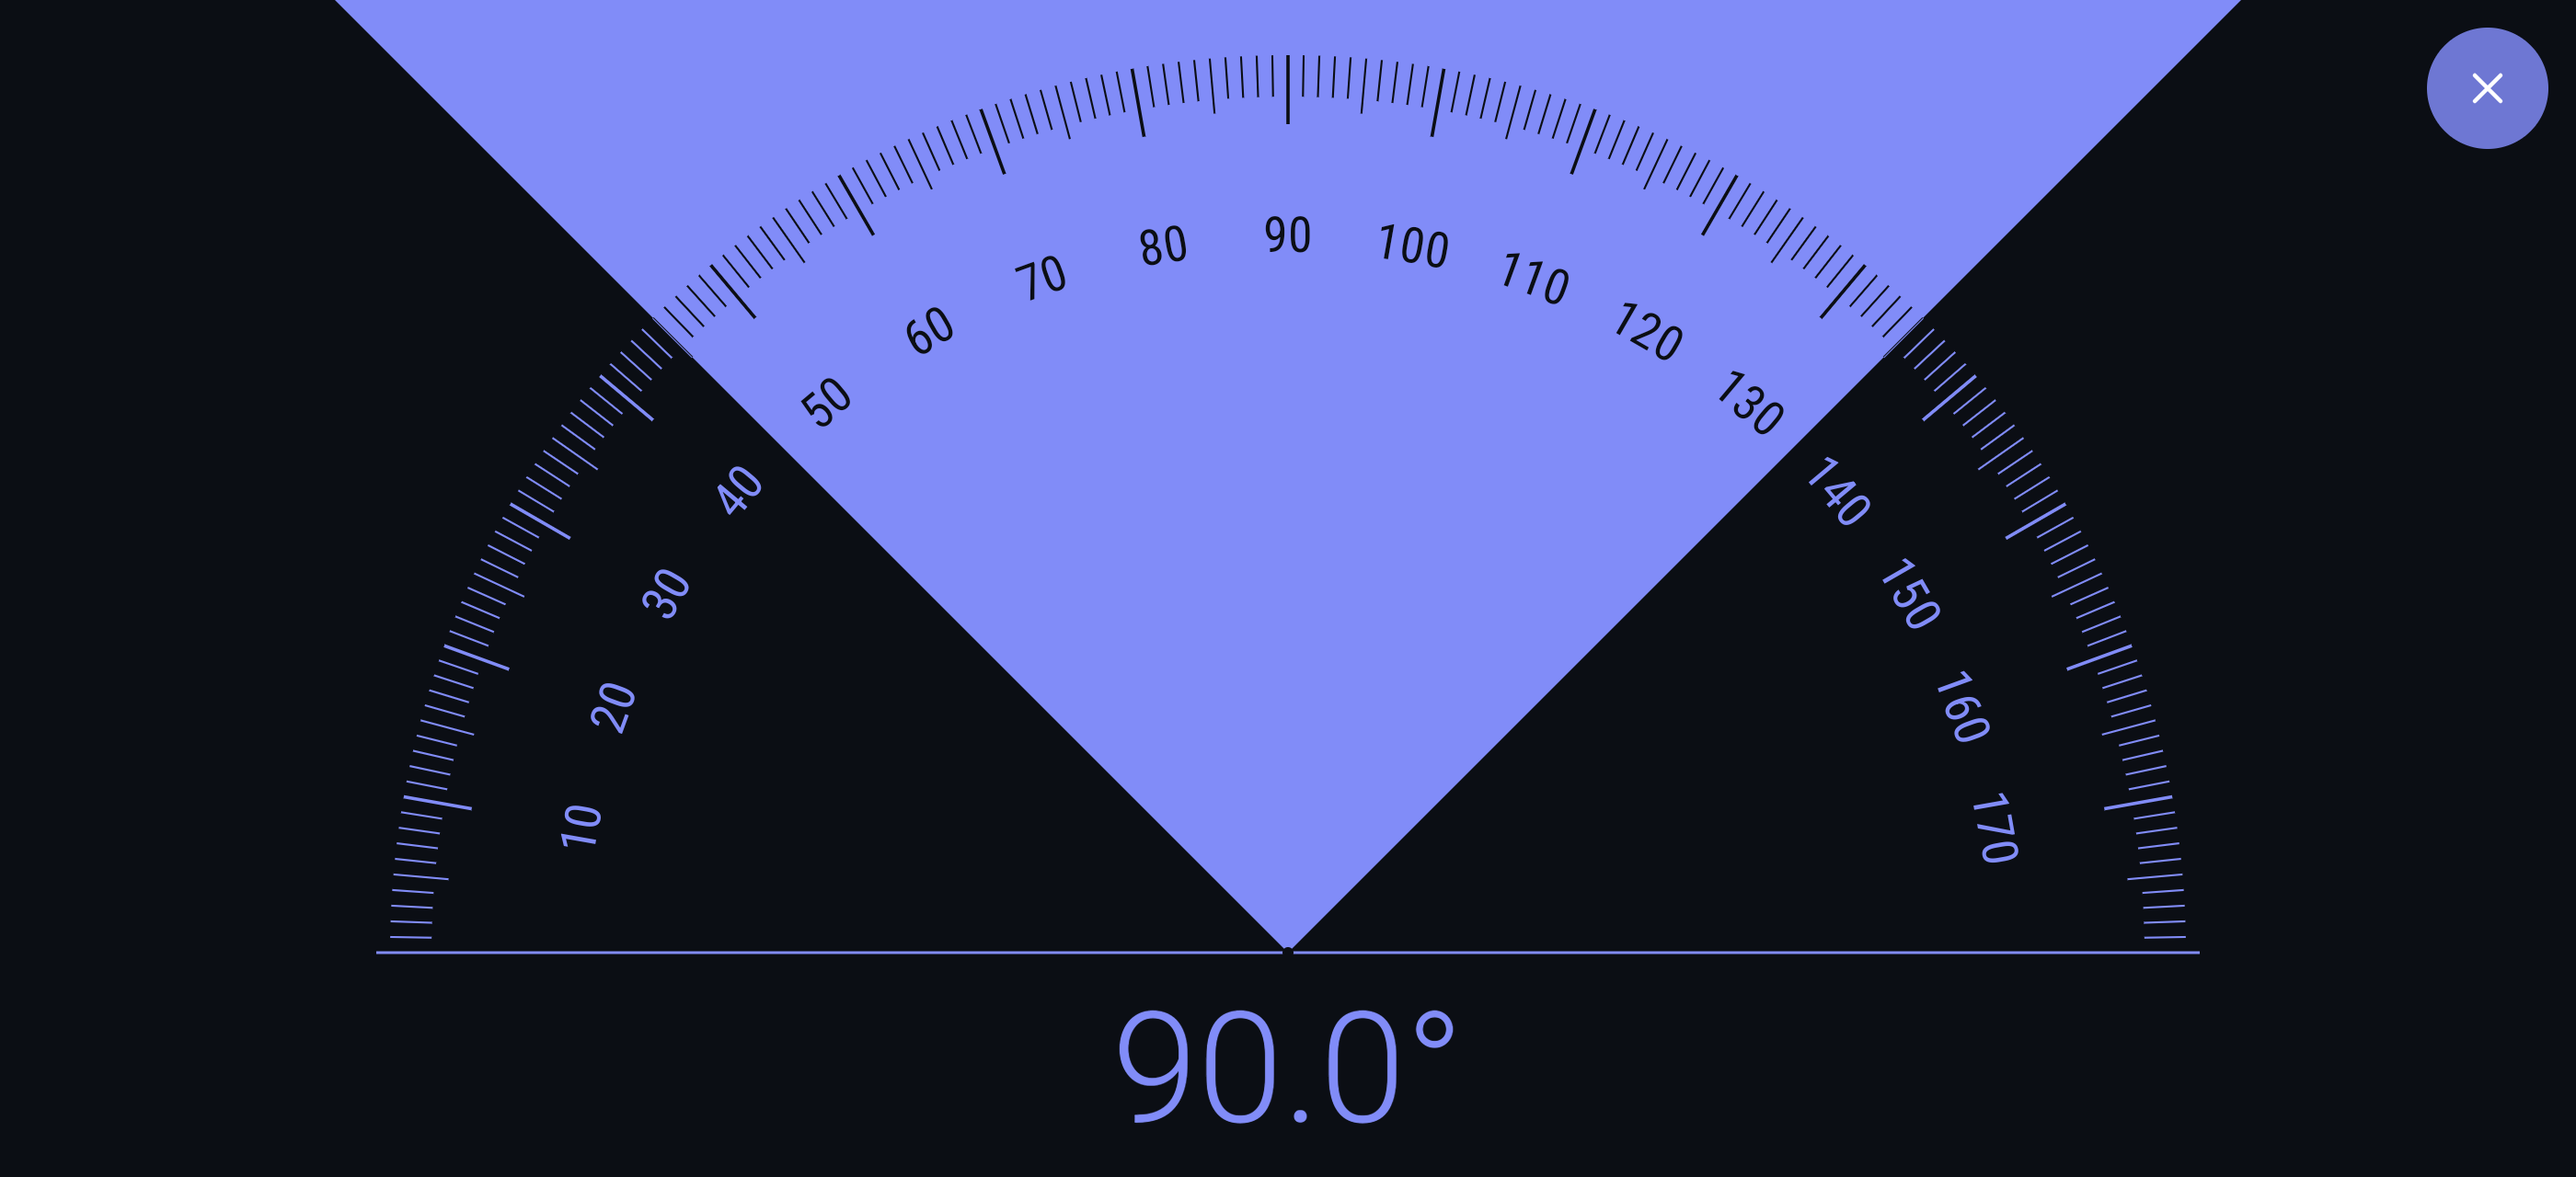
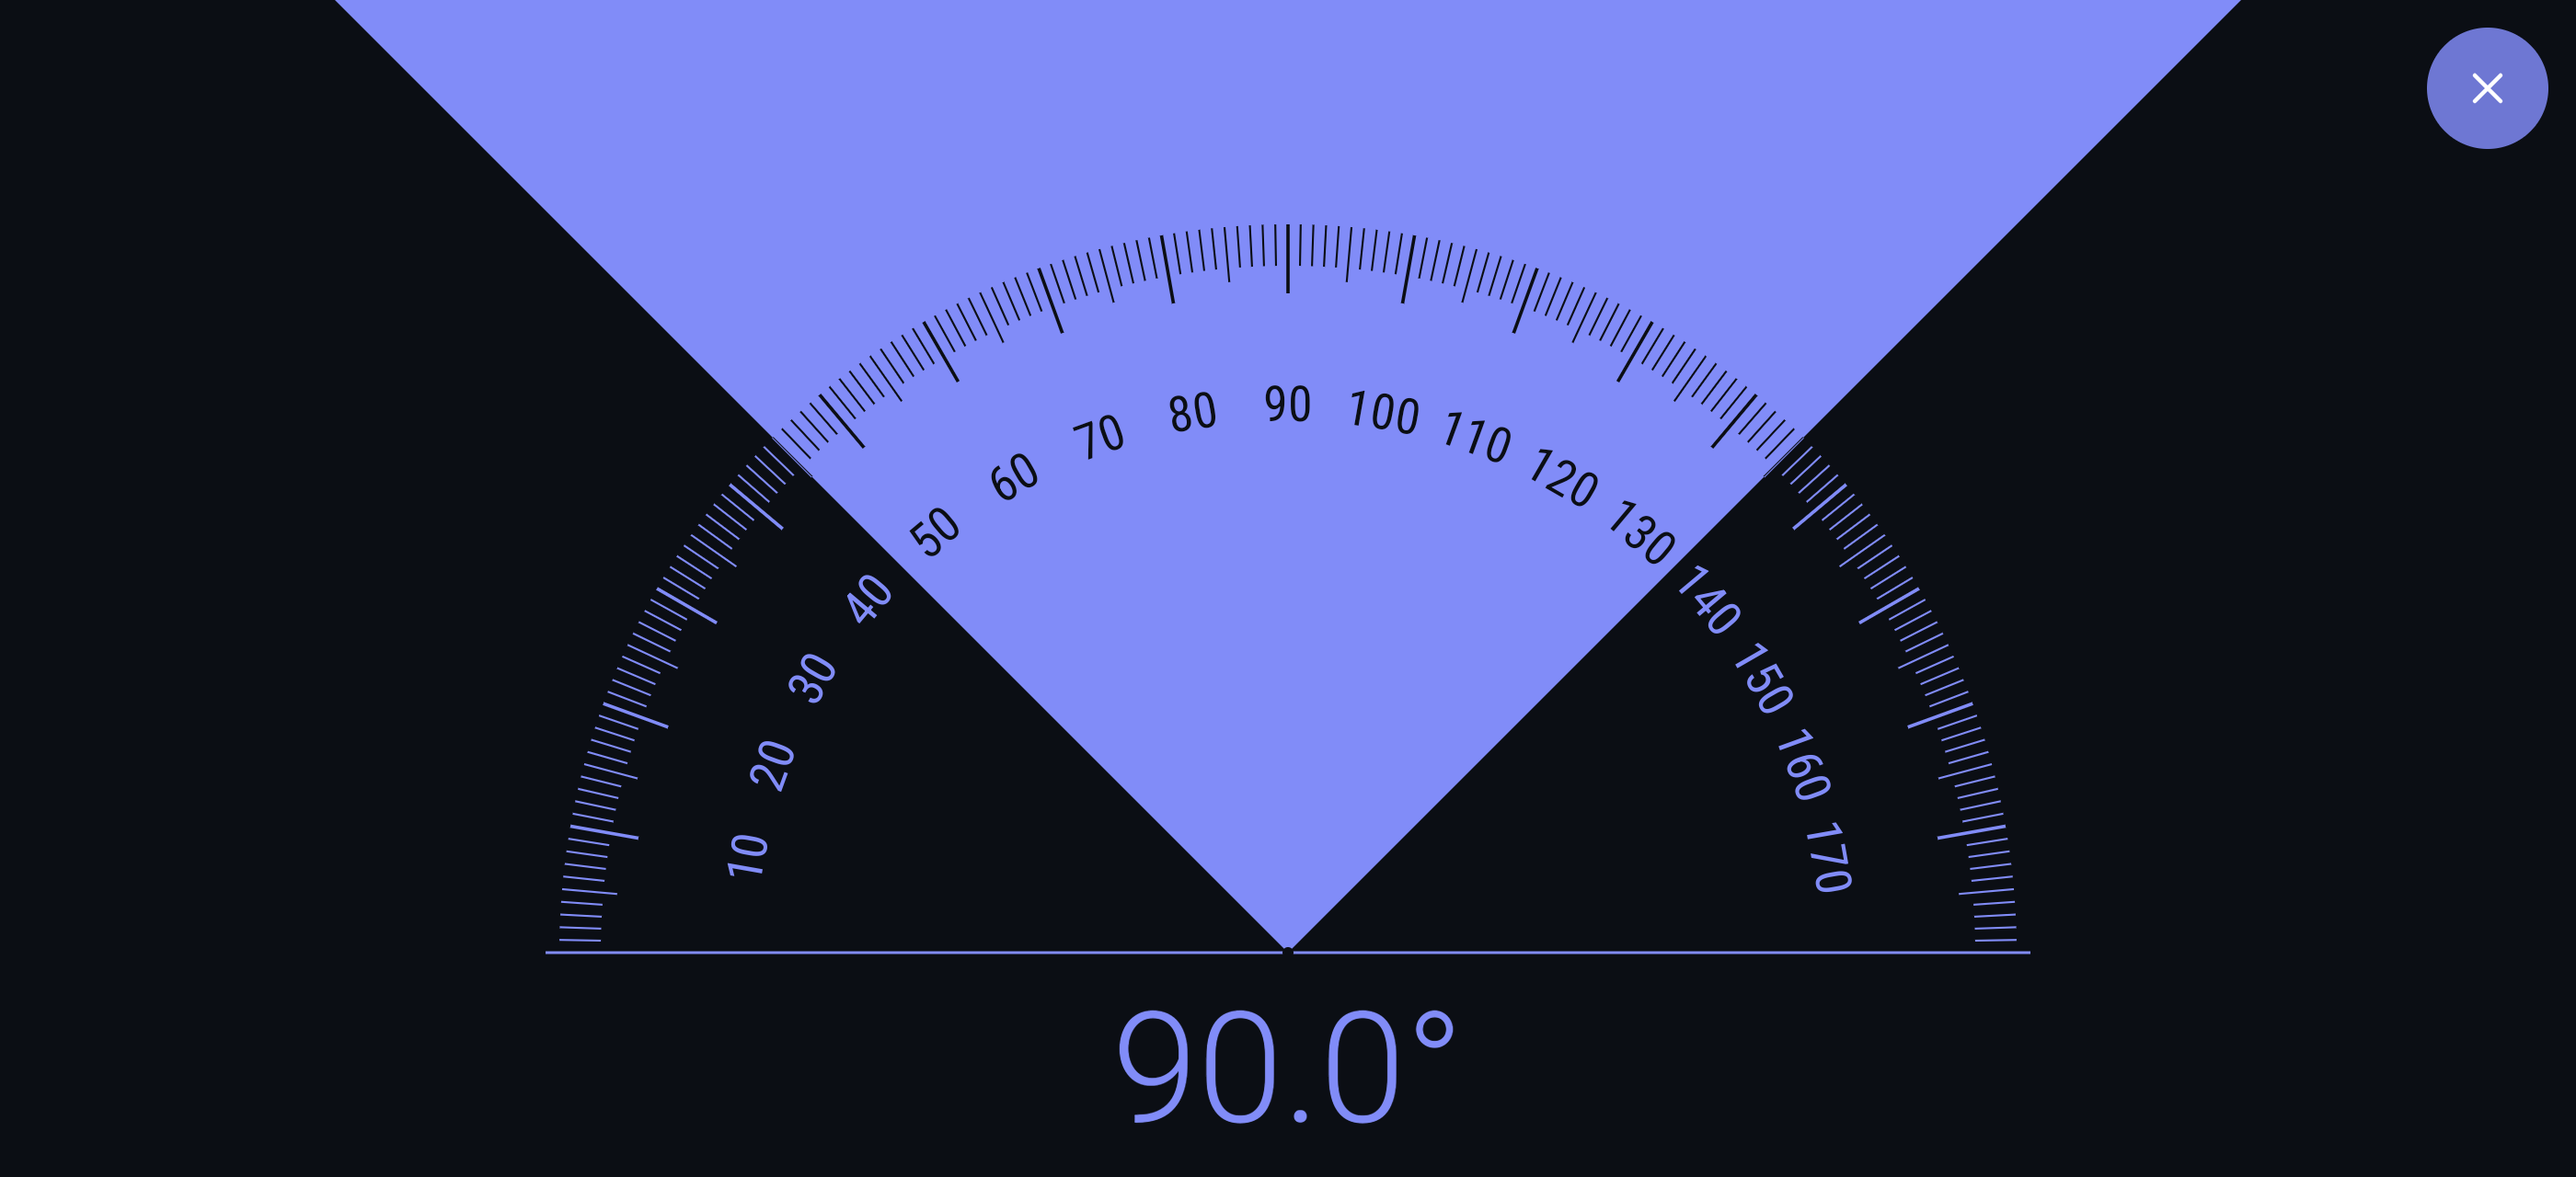
Centre the protractor dial on the screen in both orientations
The dial was anchored to the strip above the readout, which left a much larger gap under it than above it. Both orientations now place the middle of the dial on the middle of the screen and keep the readout in its strip below, with the same 20 dp margin.

diff --git a/app/src/main/java/org/openruler/app/view/ProtractorView.kt b/app/src/main/java/org/openruler/app/view/ProtractorView.kt
@@ -107,19 +107,28 @@ class ProtractorView @JvmOverloads constructor(
 
     override fun onSizeChanged(w: Int, h: Int, oldw: Int, oldh: Int) {
         super.onSizeChanged(w, h, oldw, oldh)
-        val bottomLimit = h - labelHeight - 2f * inset
         portrait = h > w
         if (portrait) {
             // The long edge is the one that gets lined up with the object, so in portrait the
             // dial takes a quarter turn: its base line runs down the left side and the scale
             // opens to the right. Only the readout stays horizontal, along the bottom.
             centerX = inset
-            centerY = bottomLimit / 2f
-            tickRadius = min(bottomLimit / 2f - inset, w - 2f * inset).coerceAtLeast(dp(40f))
+            centerY = h / 2f
+            // The dial is centred on the screen; the readout keeps its strip at the bottom.
+            tickRadius = minOf(
+                centerY - inset,
+                h - labelHeight - 2f * inset - centerY,
+                w - 2f * inset
+            ).coerceAtLeast(dp(40f))
         } else {
             centerX = w / 2f
-            centerY = bottomLimit
-            tickRadius = min(bottomLimit - inset, w / 2f - inset - gap).coerceAtLeast(dp(40f))
+            // Same idea along the long edge: the arc and the base line keep equal margins,
+            // and the readout sits in the strip under the base line.
+            tickRadius = minOf(
+                h - 2f * (labelHeight + 2f * inset),
+                w / 2f - inset - gap
+            ).coerceAtLeast(dp(40f))
+            centerY = h - (h - tickRadius) / 2f
         }
         // The wedge has to reach past every corner, whichever way the dial is turned.
         wedgeRadius = maxOf(
